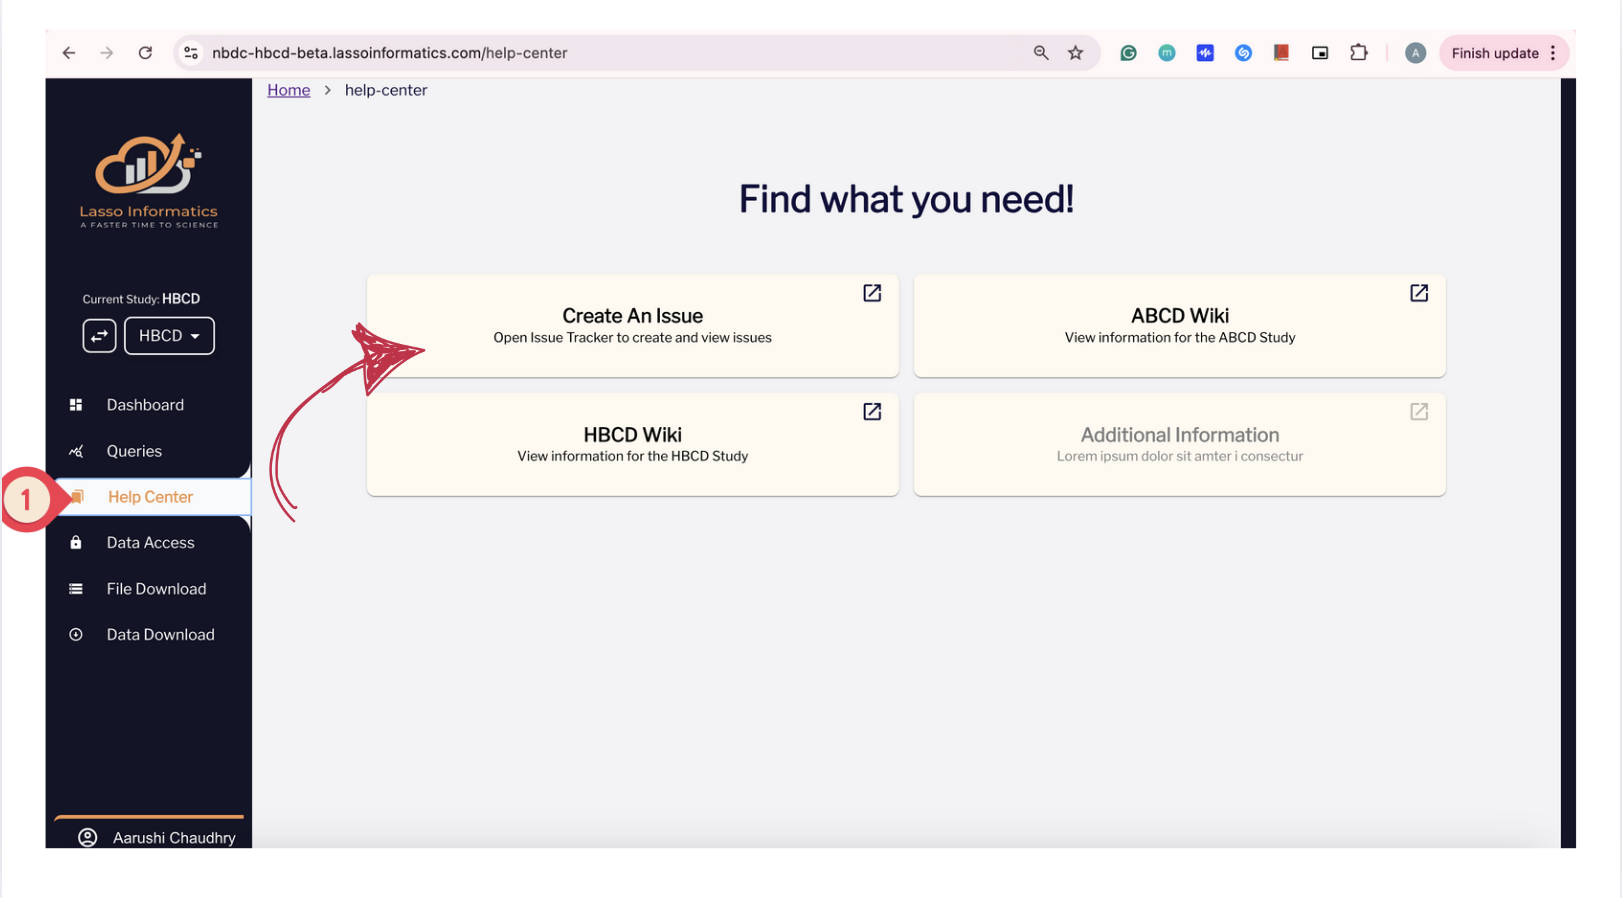
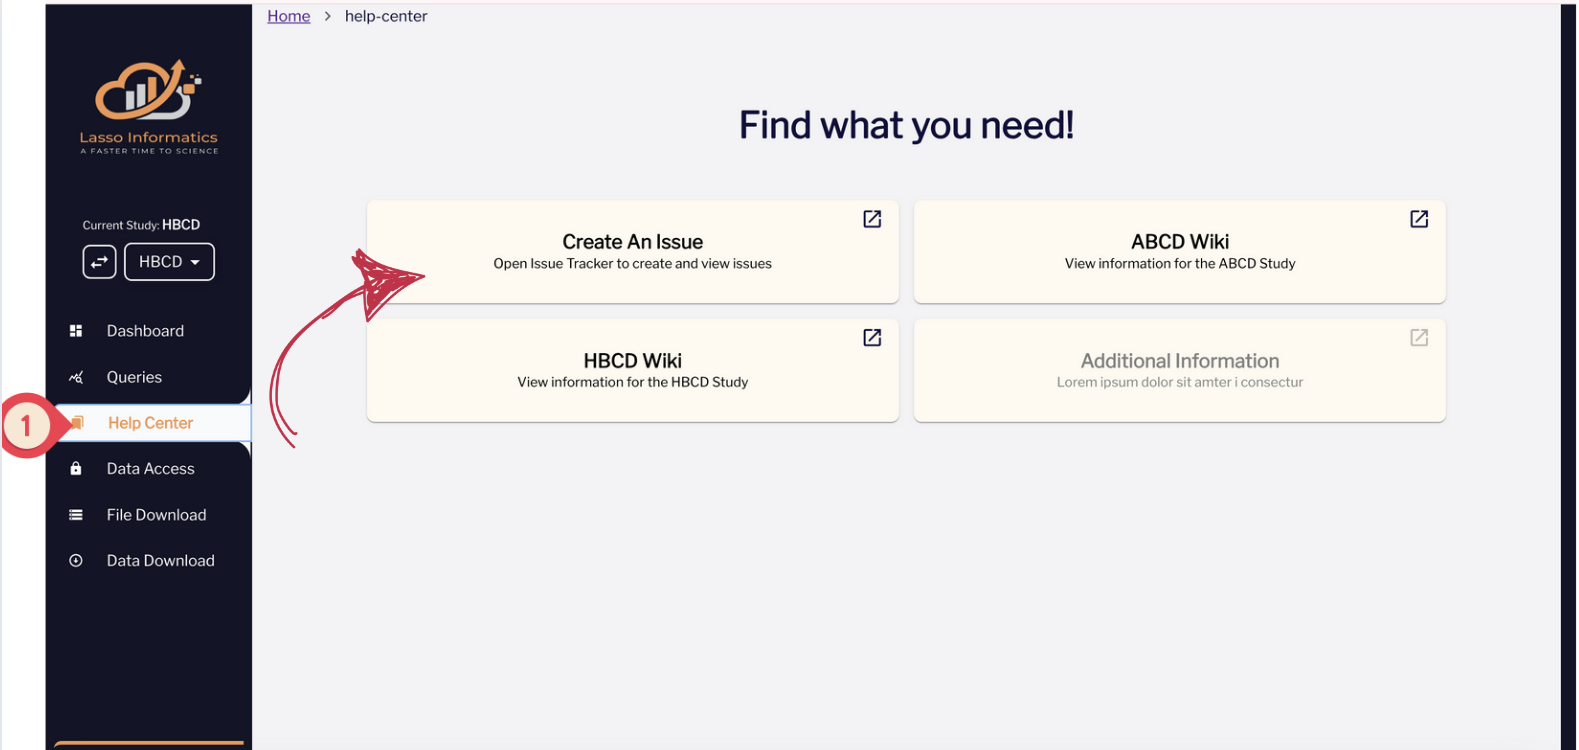
add images to report issue section

diff --git a/docs/reportissue.md b/docs/reportissue.md
@@ -2,22 +2,19 @@
 
 If you encounter any issues or have questions regarding the Data Release documentation or data access on the Lasso Informatics platform for HBCD, please submit a help desk ticket through the following steps:
 
-![](images/reportissue_1.png)
-<img src="images/reportissue_1.png">
+<p>1. <b>Log in to the Lasso Informatics platform:</b> <a href="https://nbdc-hbcd-beta.lassoinformatics.com/" target="_blank">https://nbdc-hbcd-beta.lassoinformatics.com/</a></p>
 
-<ol style="font-family: Arial, sans-serif; font-size: 16px; line-height: 1.6; margin: 20px 0; padding-left: 5px;">
-  <li>
-    <strong>Log in to the Lasso Informatics platform:</strong> 
-    <a href="https://nbdc-hbcd-beta.lassoinformatics.com/" target="_blank">https://nbdc-hbcd-beta.lassoinformatics.com/</a>
-  </li>
-  <li>
-    <strong>Access the Help Center:</strong> Select <em>Help Center</em> from the left-side menu, then click <em>Create an Issue</em>.
-<img src="images/reportissue_1.png" alt="temp">
-  </li>
-  <li>
-    <strong>Submit a Ticket:</strong> Choose <em>Submit a Ticket</em> from the available options at the top of the page.
-  </li>
-</ol>
+<p>
+2. <b>Access the Help Center:</b> Select <i>Help Center</i> from the left-side menu, then click <i>Create an Issue</i>:
+</p>
+
+![](images/reportissue_1.png)
+
+<p>
+3. <b>Submit a Ticket:</b> Choose <i>Submit a Ticket</i> from the available options at the top of the page:
+</p>
+
+![](images/reportissue_2.png)
 
 Once your ticket is submitted, you will receive an email notification from Lasso with further assistance.
 
